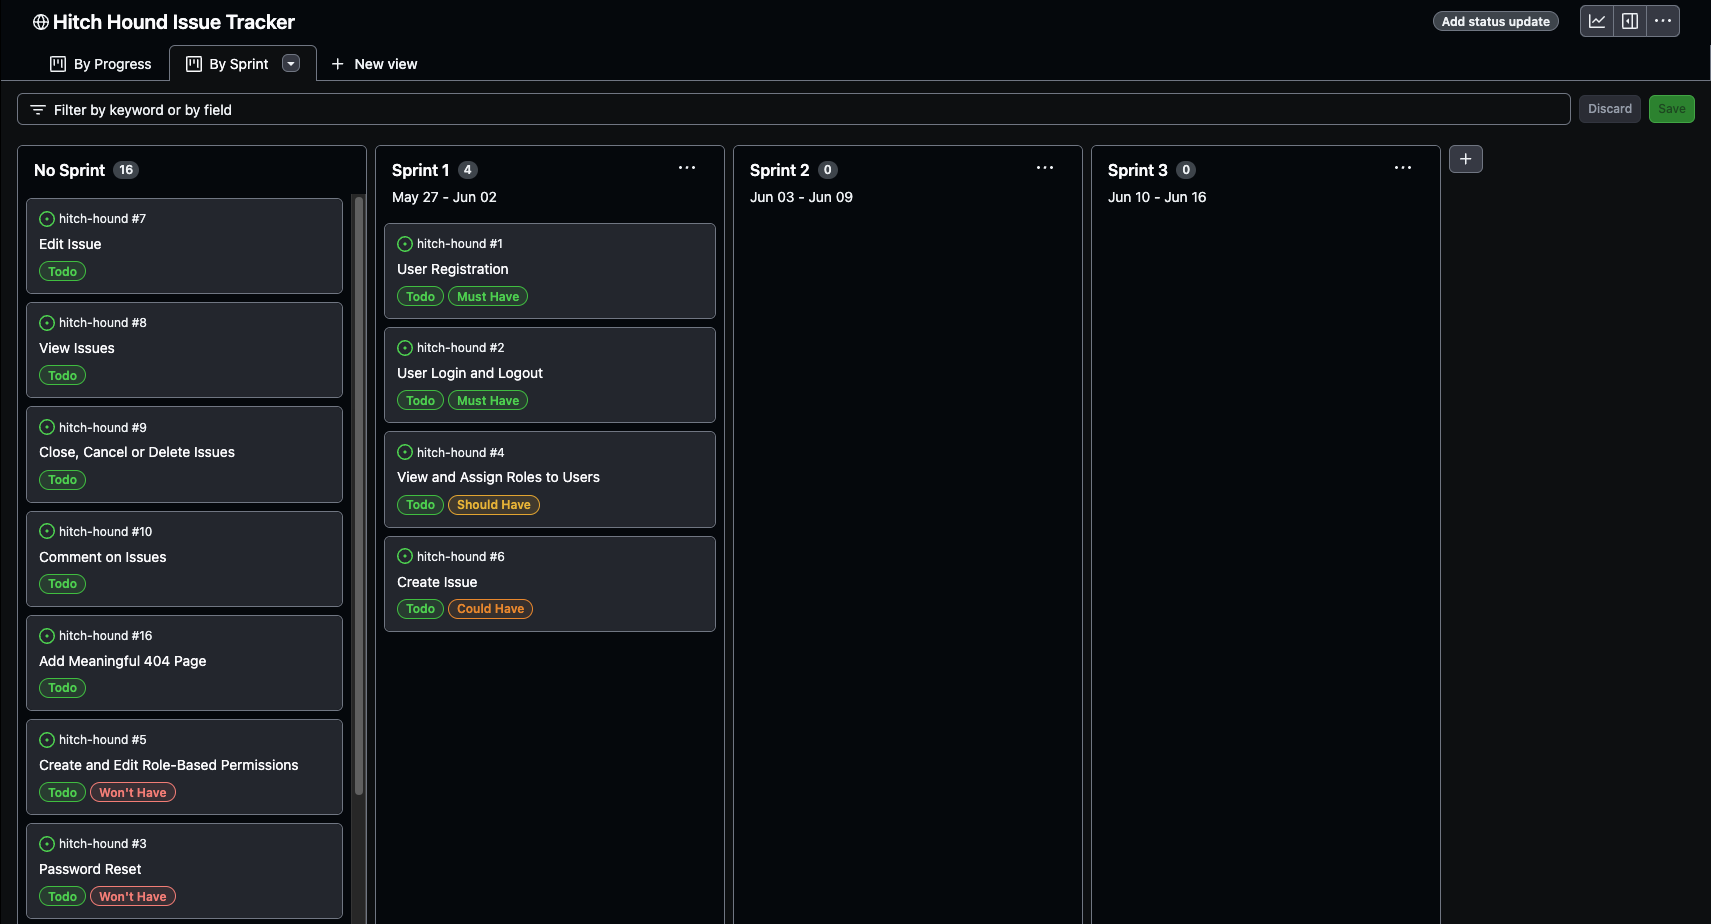
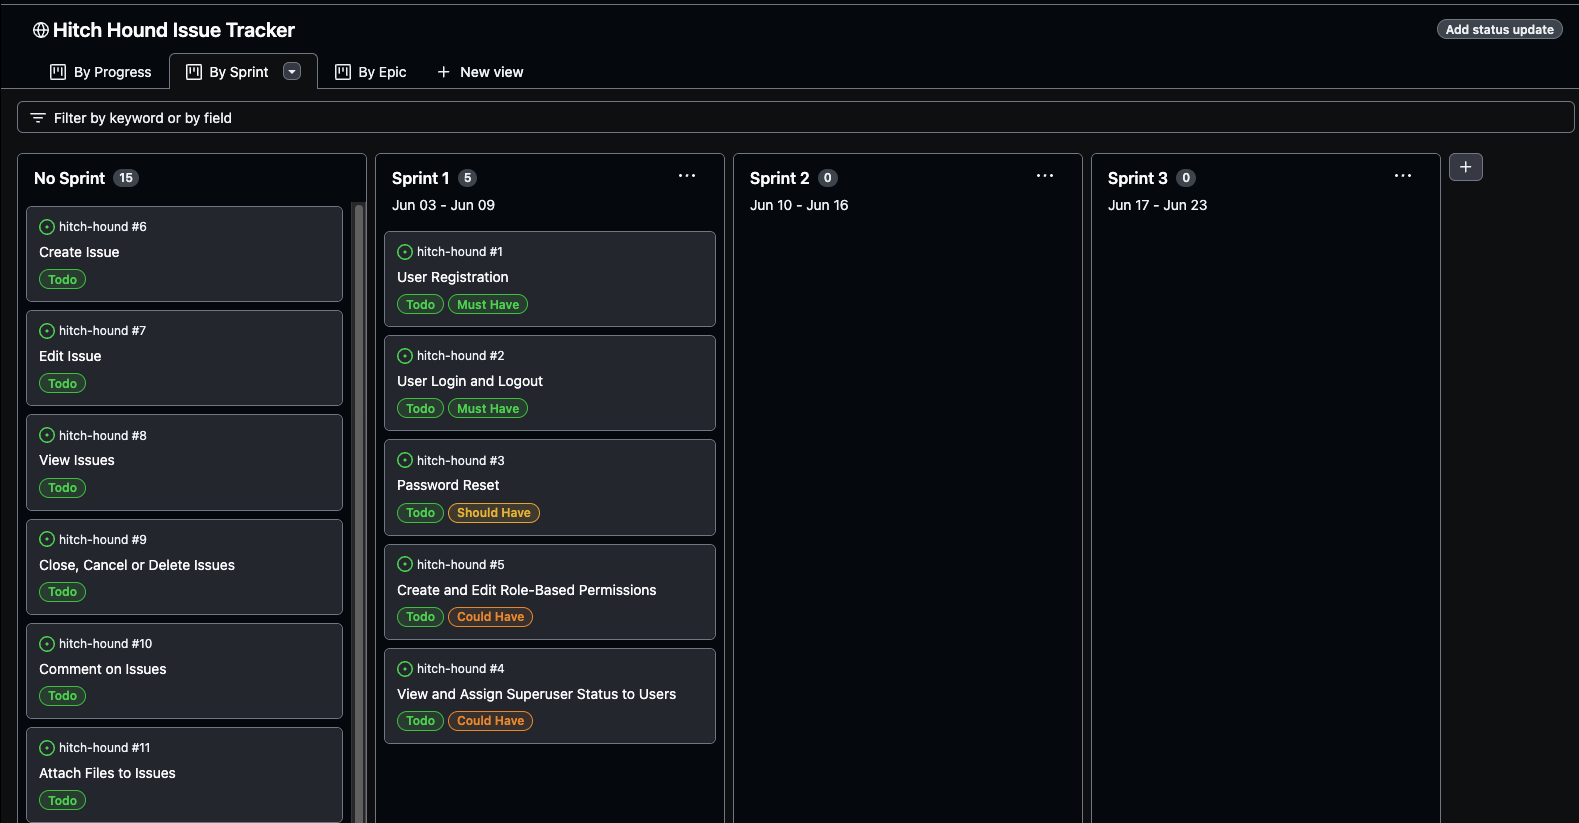
Update readme contents and sprint planning details

diff --git a/README.md b/README.md
@@ -9,31 +9,32 @@ Automated testing is done with Jest (JavaScript) and Unittest (Python).
 
 # Table of Contents
 1. [Purpose](#purpose)
-2. [Requirement Gathering and Planning](#requirement-gathering-and-planning)
-    a. [Brief Competitor Analysis and Target Demographic](#brief-competitor-analysis-and-target-demographic)
-    b. [Epics and User Stories](#epics-and-user-stories)
-    c. [User Journeys](#user-journeys)
-3. [Data Design](#data)
-    a. [Database Schema](#database-schema)
-    b. [Data Manipulation](#data-manipulation)
-    c. [Data Validation](#data-validation)
-4. [User Interface Design](#user-interface-design)
-    a. [Wireframes](#wireframes)
-    b. [Colour Scheme](#colour-scheme)
-    c. [Icons](#icons)
-5. [Testing](#testing)
-    a. [Test Plan](#test-plan)
-    b. [Automated Testing](#automated-testing)
-    c. [Manual Testing](#manual-testing)
-    d. [Browser Compatibility and Screen Size Responsiveness](#browser-compatibility-and-screen-size-responsiveness)
-    e. [Key Responsiveness Differences](#key-responsiveness-differences)
-    f. [Accessibility](#accessibility)
+2. [Requirement Gathering and Planning](#requirement-gathering-and-planning) <br>
+    a. [Brief Competitor Analysis and Target Demographic](#brief-competitor-analysis-and-target-demographic) <br>
+    b. [Data and Security features](#data-and-security-features)<br>
+    c. [Epics and User Stories](#epics-and-user-stories) <br>
+    d. [User Journeys](#user-journeys) <br>
+3. [Data Design](#data) <br>
+    a. [Database Schema](#database-schema) <br>
+    b. [Data Manipulation](#data-manipulation) <br>
+    c. [Data Validation](#data-validation) <br>
+4. [User Interface Design](#user-interface-design) <br>
+    a. [Wireframes](#wireframes) <br>
+    b. [Colour Scheme](#colour-scheme) <br>
+    c. [Icons](#icons) <br>
+5. [Testing](#testing) <br>
+    a. [Test Plan](#test-plan) <br>
+    b. [Automated Testing](#automated-testing) <br>
+    c. [Manual Testing](#manual-testing) <br>
+    d. [Browser Compatibility and Screen Size Responsiveness](#browser-compatibility-and-screen-size-responsiveness) <br>
+    e. [Key Responsiveness Differences](#key-responsiveness-differences) <br>
+    f. [Accessibility](#accessibility) <br>
 6. [Bugs](#bugs)
 7. [Deployment](#deployment)
-8. [Agile Methodology](#agile-methodology)
-    a. [Sprint One](#sprint-one-2705-to-0206)
-    b. [Sprint Two](#sprint-two-0306-to-0906)
-    c. [Sprint Three](#sprint-three-1006-to-1606)
+8. [Agile Methodology](#agile-methodology) <br>
+    a. [Sprint One](#sprint-one-2705-to-0206) <br>
+    b. [Sprint Two](#sprint-two-0306-to-0906) <br>
+    c. [Sprint Three](#sprint-three-1006-to-1606) <br>
 9. [Credits](#credits)
 
 ## Purpose
@@ -46,41 +47,47 @@ Before starting the coding for this project, I created a detailed plan including
 ### Brief Competitor Analysis and Target Demographic
 When considering competitors in the realm of issue and bug tracking software, it's helpful to look at some well-known options. Atlassian's Jira is widely recognised for its range of features and flexibility, making it a go-to choice for companies of all sizes. Another popular option is GitHub's issue tracking system, which seamlessly integrates with its version control platform, making it a convenient choice for teams already using GitHub. Additionally, tools like Trello are valued for their user-friendly interface and adaptability, though they do lack some of the specific features tailored for issue tracking. In this landscape, my program intends to stand out by focusing on simplicity and ease of use, making it ideal for small to medium enterprises (SMEs) looking for a straightforward solution without unnecessary complexity. The goal is to provide a practical and efficient tool for managing software development issues, offering a simpler alternative in a market dominated by larger, more complex platforms.
 
+### Data and Security Features
+
+With this in mind, the data features chosen are clean and simple. Users can create issues that they associate with a particular project. This allows for a streamlined and intuitive user experience, enhancing productivity and facilitating effective project management. 
+
+The security features cover the essentials: authentication with a username and password, data validation and sanitisation, and keeping track of any changes made with an audit trail.
+
 ### Epics and User Stories
 
 My user stories can be seen in full in the associated GitHub Project on my repo. This is where all the details, including tasks and acceptance criteria can be seen. These user stories have been assigned to Epics.
 
-I have listed them by title below to show the split between the absolutely necessary user stories for the MVP (Minimum Viable Product) and those that do improve the user experience but are not essential for the first version of my program. 
+Epic 1: User Management
+- User Registration <br>
+- User Login and Logout <br>
+- Password Reset <br>
+- Create and Edit Role-Based Permissions <br>
+- View and Assign Superuser Status to Users <br>
 
-**MVP**
-1. Epic: User Management 
-    a. User Registration
-    b. User Login and Logout
-    c. View and Assign Superuser Status to Users
-    d. Add Meaningful 404 Page
-2. Epic: Issue Management
-    a. Create Issue
-    b. Edit Issue
-    c. View Issues
-    d. Close, Cancel or Delete Issues
-    e. Comment on Issues
+Epic 2: Issue Management 
+- Create Issue <br>
+- Edit Issue <br>
+- View Issues <br>
+- Close, Cancel or Delete Issues <br>
+- Comment on Issues <br>
+- Attach Files to Issues <br>
 
-**Future Enhancements**
-3. Epic: Enhanced User Management
-    a. Password Reset
-    b. Create and Edit Role-Based Permissions
-    c. Receive Notifications from Other Users' Actions
-4. Epic: Enhanced Issue Management
-    a. Attach Files to Issues
-    b. Provide a Change History Log
-    c. Connect 2+ Issues as Related
-    d.Search for Issues by Keyword
-5. Epic: Project Management
-    a. Create Project
-    b. Edit Project
-    c. Close, Cancel or Delete Projects
-6. Epic: Reporting
-    a. Add Reporting
+Epic 3: Notifications and Error Messaging
+- Add Meaningful 404 Page <br>
+- Receive Notifications from Other Users' Actions <br>
+
+Epic 4: Enhanced Issue Management
+- Provide a Change History Log <br>
+- Connect 2+ Issues as Related <br>
+- Search for Issues by Keyword <br>
+
+Epic 5: Project Management
+- Create Project <br>
+- Edit Project <br>
+- Close, Cancel or Delete Projects <br>
+
+Epic 6: Reporting
+- Add Reporting <br>
  
 ### User Journeys
 
@@ -212,15 +219,19 @@ These are the steps I took to set up my infrastructure and deploy my app:
 ## Agile Methodology
 I set this project up in GitHub projects using agile methodology. This facilitated my prioritisation and time management. I added all the user stories as issues and then divided them into 'MVP'(Minimum Viable Product) and 'Future Enhancements' to signify what I intend to complete for my assessed project and what could come later. Those MVP stories were then stack-ranked. I added three one-week sprints to the project and filled my first sprint with my intended work according to the MoSCoW prioritisation system. 
 
-### Sprint One: 27/05 to 02/06
+### Sprint One: 03/06 to 09/06
 ![Sprint One](documentation/sprint1.png)
 
-Sprint planning involved taking the highest priority issues from the top of the stack and assigning them to the first sprint. I marked the first two as 'Must Have' for this sprint, the next one 'Should Have' and the last one 'Could Have'. This gave me a breakdown of 50% for must and 25% each for should and could. This seemed like a manageable workload for me. 
+#### Sprint Planning
+Sprint planning involved taking the highest priority issues from the top of the stack and assigning them to the first sprint. I marked the first two as 'Must Have' for this sprint, the next one 'Should Have' and the last two 'Could Have'. This gave me a breakdown of 40% for must, 20% for should and 40% for could. If I achieve all of these user stories in the first sprint, I will have completed my first epic: User Management.
 
-In the screenshot, those marked 'Won't Have' are the stories that were deemed to be above and beyond the requirements for an MVP and have been labelled as such to indicate that they will not be included.
-### Sprint Two: 03/06 to 09/06
+#### Sprint Retrospective
+- Placeholder 
 
-### Sprint Three: 10/06 to 16/06
+
+### Sprint Two: 10/06 to 16/06
+
+### Sprint Three: 17/06 to 23/06
 
 ## Credits
 
